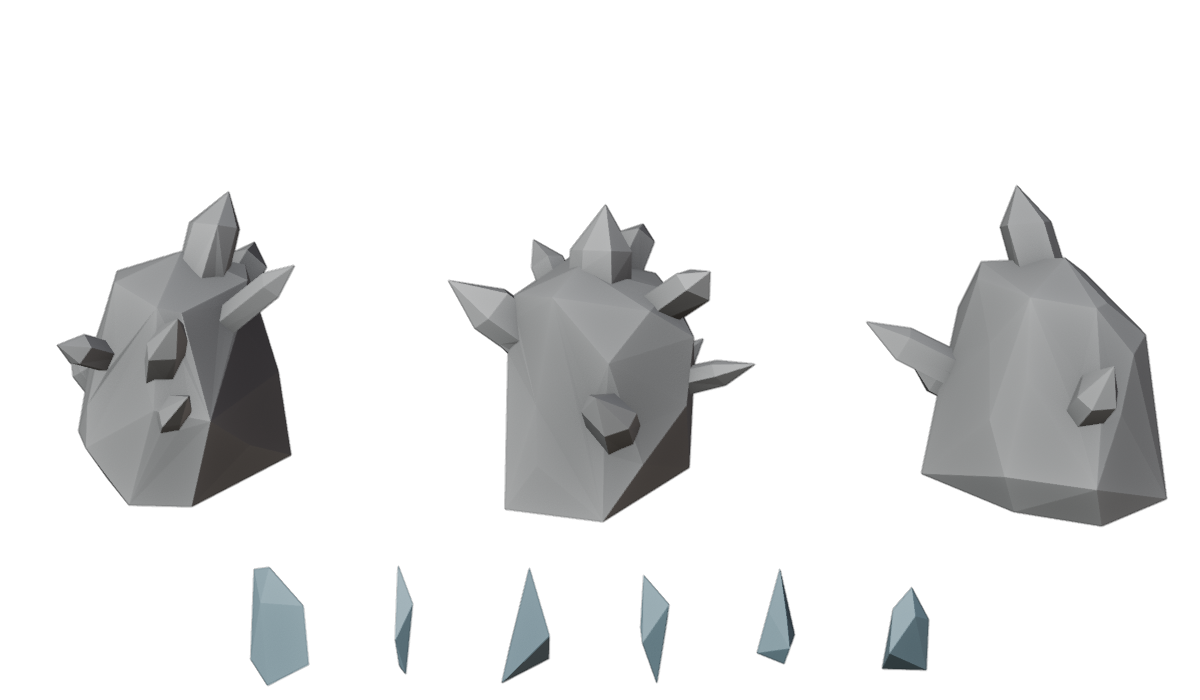
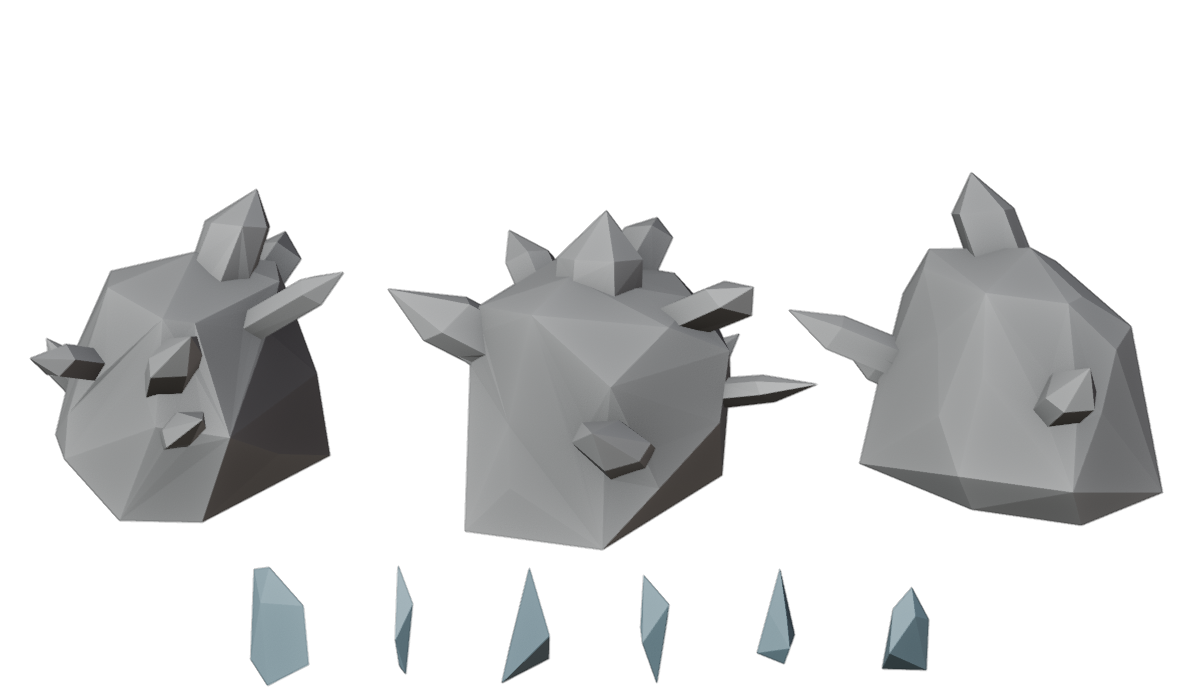
Ice shell: pivot on the body not the crystals, fitted to what is seen (models bigger than their colliders)
Claude-Session: https://claude.ai/code/session_011drgzduvZ7knNbtAmuNzoj

Changed region(s): [[0.0308, 0.24, 0.9867, 0.78]]

diff --git a/hukaton/Assets/Expedition/Runtime/Ice/IceEncasement.cs b/hukaton/Assets/Expedition/Runtime/Ice/IceEncasement.cs
@@ -178,11 +178,16 @@ namespace Hakaton.Expeditions
                 var bounds = new Bounds(transform.position, Vector3.zero);
                 foreach (var c in GetComponentsInChildren<Collider>())
                     if (c.enabled && !c.isTrigger) bounds.Encapsulate(c.bounds);
+                // The model may be bigger than its colliders (a mimic's lid and straps): cover what is seen.
+                foreach (var r in GetComponentsInChildren<Renderer>())
+                    if (r.enabled && (r is MeshRenderer || r is SkinnedMeshRenderer) && !r.GetComponent("TMP_Text")
+                        && (!shell || !r.transform.IsChildOf(shell.transform)))
+                        bounds.Encapsulate(r.bounds);
                 height = Mathf.Max(.3f, bounds.max.y - transform.position.y);
                 radius = Mathf.Max(.2f, Mathf.Max(bounds.extents.x, bounds.extents.z));
                 centre = new Vector3(bounds.center.x, transform.position.y, bounds.center.z);
             }
-            float widthPadding = kit ? kit.widthPadding : 1.45f, heightPadding = kit ? kit.heightPadding : 1.3f;
+            float widthPadding = kit ? kit.widthPadding : 1.2f, heightPadding = kit ? kit.heightPadding : 1.3f;
             shellHeight = height * heightPadding;
             shellRadius = radius * widthPadding;
             shellBase = centre - Vector3.up * shellHeight * (kit ? kit.sink : .06f);

diff --git a/output/ice-shell/make_ice.py b/output/ice-shell/make_ice.py
@@ -90,6 +90,8 @@ def shell(name, seed, twist, lean, n_spikes):
     r=random.Random(seed)
     body=hull_object(name, shell_points(seed,n_spikes=0), twist=0)
     for v in body.data.vertices: v.co.x*=1.0; v.co.z*=0.95
+    bx=[v.co.x for v in body.data.vertices]; by=[v.co.y for v in body.data.vertices]
+    core=((min(bx)+max(bx))/2,(min(by)+max(by))/2,max(max(bx)-min(bx),max(by)-min(by)))
     for s in range(n_spikes):
         az=r.random()*math.tau
         z=r.uniform(.15,.85)
@@ -109,7 +111,10 @@ def shell(name, seed, twist, lean, n_spikes):
         v.co.y=x*math.sin(ang)+y*math.cos(ang)+lean.y*h*h
     bmesh.ops.triangulate(bm, faces=bm.faces); bm.normal_update(); bm.to_mesh(me); bm.free()
     for p in me.polygons: p.use_smooth=False
-    normalize_shell(body)
+    # pivot in the middle of the body (not of the crystals), body ~1 m wide: crystals stick out past it
+    cx,cy,w=core; zs=[v.co.z for v in me.vertices]; z0=min(zs); h=max(zs)-z0
+    for v in me.vertices:
+        v.co.x=(v.co.x-cx)/w; v.co.y=(v.co.y-cy)/w; v.co.z=(v.co.z-z0)/h
     return body
 
 shells=[]

diff --git a/hukaton/Assets/Expedition/Runtime/Ice/IceShellKit.cs b/hukaton/Assets/Expedition/Runtime/Ice/IceShellKit.cs
@@ -18,7 +18,7 @@ namespace Hakaton.Expeditions
 
         [Header("Fit")]
         [Tooltip("Shell width over the body's width (the crystals stick out of the outline).")]
-        [Min(1)] public float widthPadding = 1.45f;
+        [Min(1)] public float widthPadding = 1.2f;
         [Tooltip("Shell height over the body's height (the crown crystal sits above the head).")]
         [Min(1)] public float heightPadding = 1.3f;
         [Tooltip("How far the shell sinks into the ground, as a share of its height.")]
